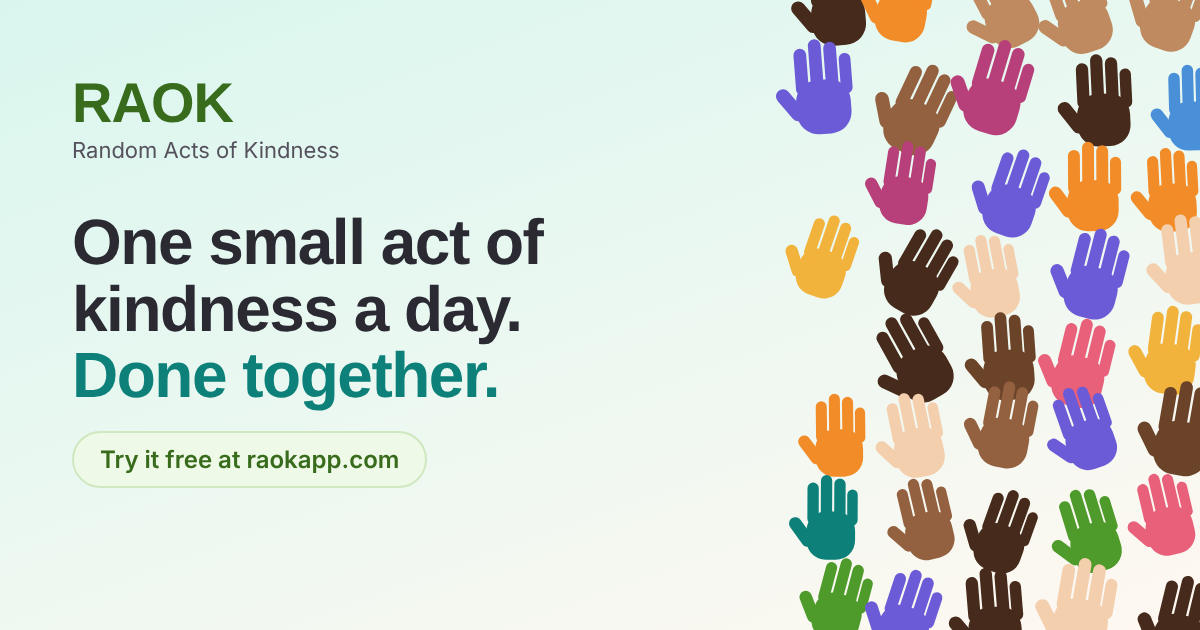
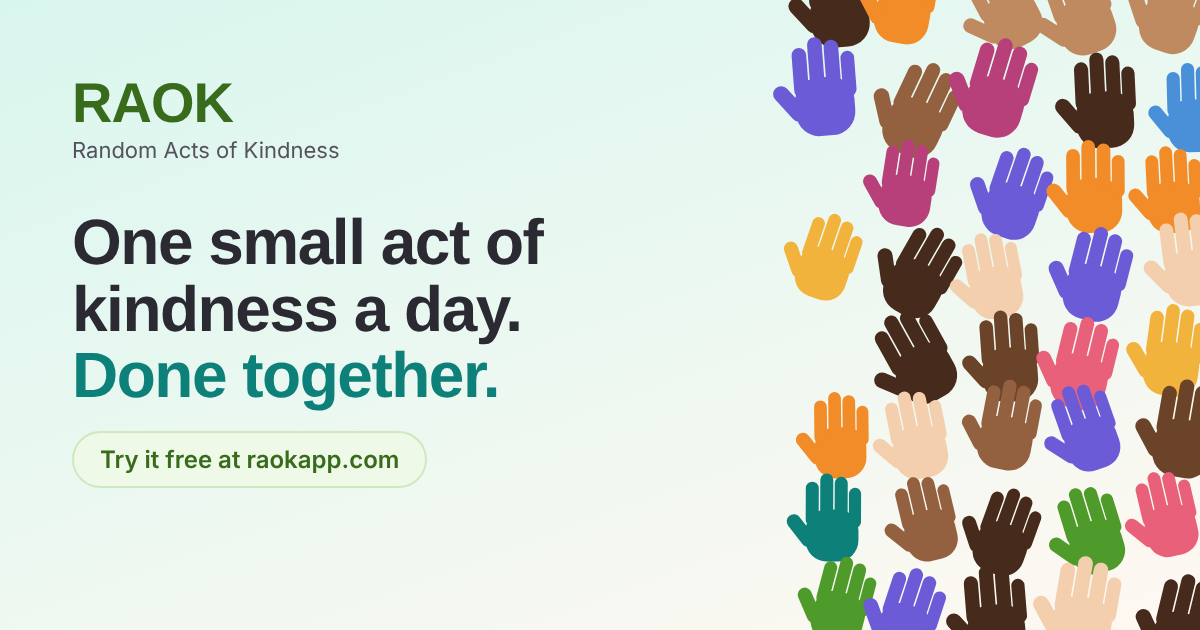
New, cleaner hand shape across the app and the link preview image
Claude-Session: https://claude.ai/code/session_01LWMeXRXNWPd97ZJFNcEECp

diff --git a/app/index.html b/app/index.html
@@ -572,12 +572,12 @@
 <!-- Share card sheet -->
 <svg width="0" height="0" style="position:absolute" aria-hidden="true"><defs>
   <symbol id="hand" viewBox="0 0 24 24">
-    <rect x="6.2" y="10.5" width="11.6" height="11.5" rx="4.6"/>
-    <rect x="6.4" y="3.6" width="2.7" height="10" rx="1.35"/>
-    <rect x="9.6" y="1.8" width="2.7" height="11" rx="1.35"/>
-    <rect x="12.8" y="2.6" width="2.7" height="10.4" rx="1.35"/>
-    <rect x="15.9" y="5.2" width="2.5" height="8.6" rx="1.25"/>
-    <rect x="3.5" y="11.4" width="3" height="8" rx="1.5" transform="rotate(-36 5 15.4)"/>
+    <rect x="6" y="10" width="12.6" height="12.4" rx="5"/>
+    <rect x="6" y="3.4" width="3.1" height="10.6" rx="1.55"/>
+    <rect x="9.45" y="1.4" width="3.1" height="12" rx="1.55"/>
+    <rect x="12.9" y="2.2" width="3.1" height="11.4" rx="1.55"/>
+    <rect x="16.3" y="4.8" width="2.9" height="9.6" rx="1.45"/>
+    <rect x="3.2" y="10.6" width="3.4" height="9" rx="1.7" transform="rotate(-38 4.9 15.1)"/>
   </symbol>
   <pattern id="pStripes" width="3" height="3" patternUnits="userSpaceOnUse" patternTransform="rotate(40)"><rect width="1.3" height="3" fill="#fff" fill-opacity=".55"/></pattern>
   <pattern id="pDots" width="3.2" height="3.2" patternUnits="userSpaceOnUse"><circle cx="1.6" cy="1.6" r=".75" fill="#fff" fill-opacity=".7"/></pattern>
@@ -1547,7 +1547,7 @@
     g.fillStyle = "#2B2A33"; g.font = "700 58px 'Space Grotesk', sans-serif"; g.fillText(usePicture() ? "Together we made a " + pic.name : "Together we filled the mural", 80, 200);
     const S = 700 / 300, ox = 190, oy = 250;
     g.save(); g.fillStyle = "#fff"; g.beginPath(); g.roundRect ? g.roundRect(ox - 20, oy - 20, 740, 740, 36) : g.rect(ox - 20, oy - 20, 740, 740); g.fill(); g.restore();
-    const R = [[6.2, 10.5, 11.6, 11.5, 4.6], [6.4, 3.6, 2.7, 10, 1.35], [9.6, 1.8, 2.7, 11, 1.35], [12.8, 2.6, 2.7, 10.4, 1.35], [15.9, 5.2, 2.5, 8.6, 1.25]];
+    const R = [[6, 10, 12.6, 12.4, 5], [6, 3.4, 3.1, 10.6, 1.55], [9.45, 1.4, 3.1, 12, 1.55], [12.9, 2.2, 3.1, 11.4, 1.55], [16.3, 4.8, 2.9, 9.6, 1.45]];
     cells.forEach((c, i) => {
       const r = mural.rows[i]; if (!r) return;
       const hh = hash(i + ":" + r.user_id), hs0 = size * 1.38, hs = hs0 * S, rot = ((hh % 60) - 30) * Math.PI / 180, k = hs / 24;
@@ -1557,7 +1557,7 @@
       const lk = handLook(r, c, i, true); g.globalAlpha = lk.op; g.fillStyle = lk.col;
       const pale = isPale(lk.col); g.strokeStyle = "rgba(168,146,127,.6)"; g.lineWidth = .9 * k;
       R.forEach(([x, y, w, h, rr]) => { g.beginPath(); g.roundRect ? g.roundRect(x * k, y * k, w * k, h * k, rr * k) : g.rect(x * k, y * k, w * k, h * k); g.fill(); if (pale) g.stroke(); });
-      g.save(); g.translate(5 * k, 15.4 * k); g.rotate(-36 * Math.PI / 180); g.beginPath(); g.roundRect ? g.roundRect(-1.5 * k, -4 * k, 3 * k, 8 * k, 1.5 * k) : g.rect(-1.5 * k, -4 * k, 3 * k, 8 * k); g.fill(); if (pale) g.stroke(); g.restore();
+      g.save(); g.translate(4.9 * k, 15.1 * k); g.rotate(-38 * Math.PI / 180); g.beginPath(); g.roundRect ? g.roundRect(-1.7 * k, -4.5 * k, 3.4 * k, 9 * k, 1.7 * k) : g.rect(-1.7 * k, -4.5 * k, 3.4 * k, 9 * k); g.fill(); if (pale) g.stroke(); g.restore();
       g.restore();
     });
     g.fillStyle = "#4F4B57"; g.font = "500 36px Inter, sans-serif"; g.fillText(Math.max(mural.total, goal).toLocaleString("en-GB") + " acts of kindness · " + MONTHS[now.getMonth()] + " " + now.getFullYear(), 80, 1010);
